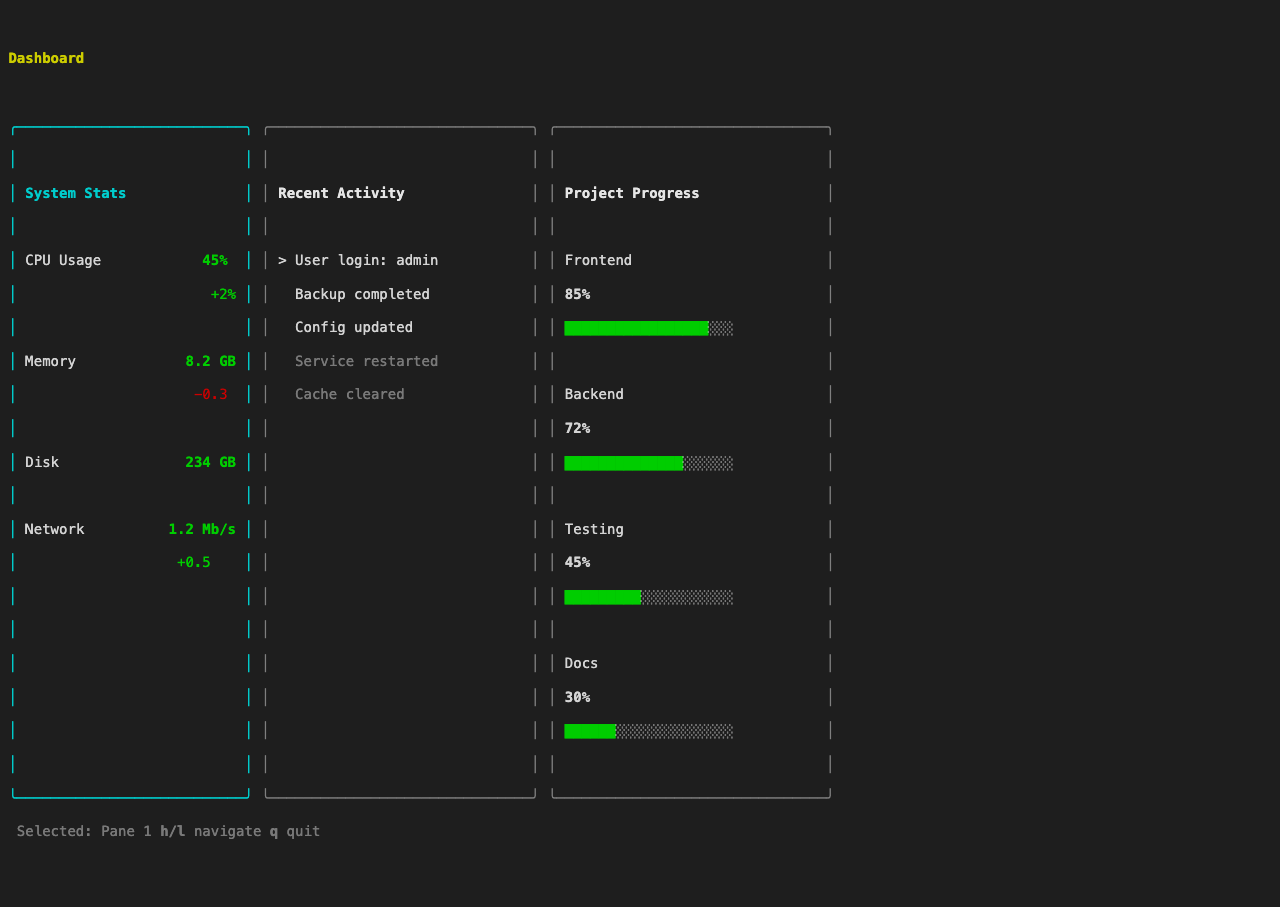
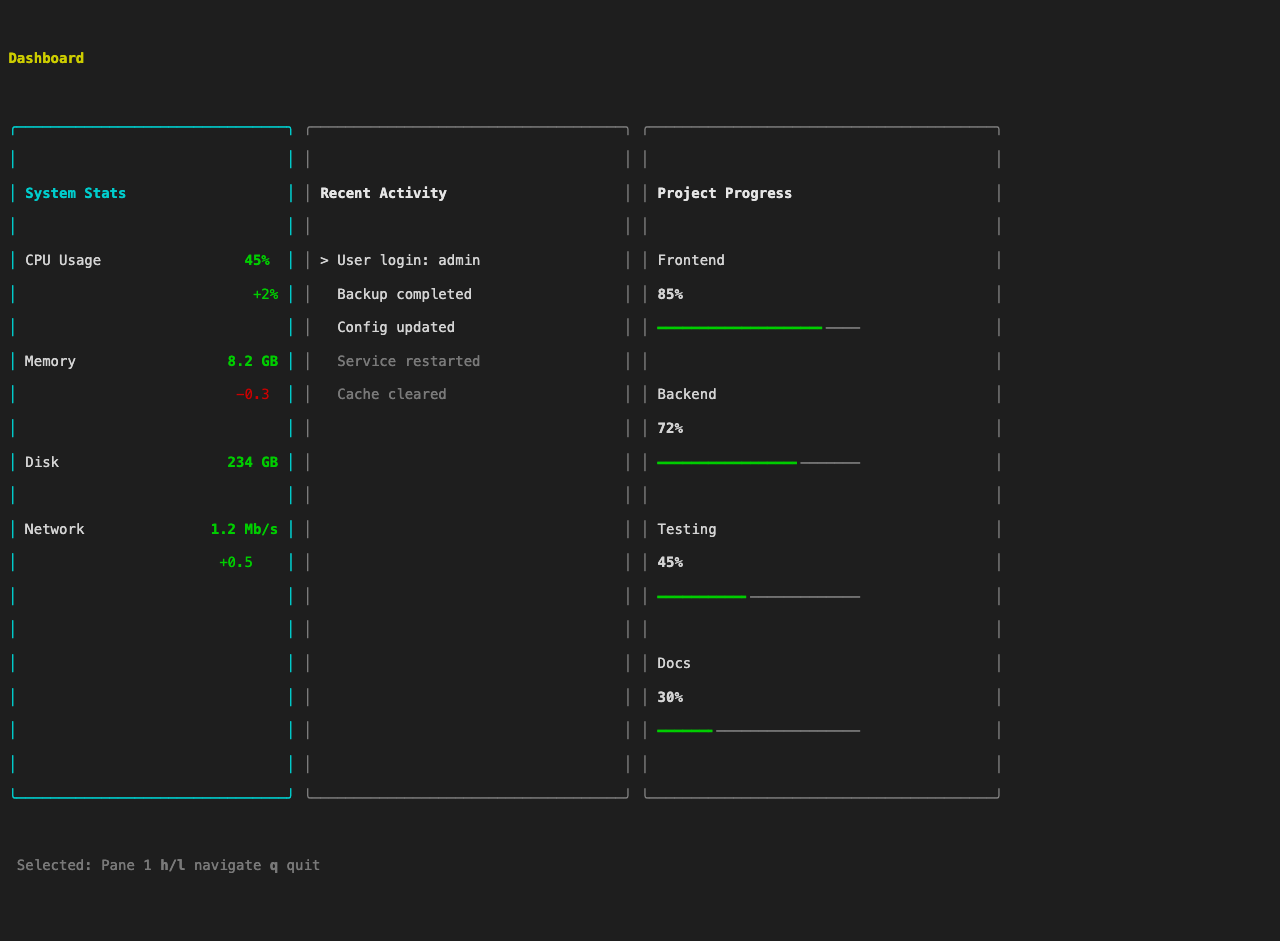
fix: improve README screenshots and remove chalkx references
- Remove chalkx from Related Projects table (internal detail, not user-facing)
- Task list: replace [!!!]/[!!]/[!] with colored P1/P2/P3 labels, add
  separator lines, use realistic task names, reduce to 8 items
- Dashboard: use sophisticated progress bar chars (━/╸/─), increase to 120 cols
- Kanban: use round borders on columns, increase to 120 cols
- All screenshots: increase rows for breathing room

diff --git a/examples/screenshots/generate.tsx b/examples/screenshots/generate.tsx
@@ -38,6 +38,21 @@ const OUTPUT_DIR = resolve(dirname(import.meta.path), "../../docs/images")
 
 // --- 1. Dashboard -----------------------------------------------------------
 
+function ProgressBar({ percent, width = 24 }: { percent: number; width?: number }): JSX.Element {
+  const filled = Math.round((percent / 100) * width)
+  const empty = width - filled
+  const dot = filled < width ? "\u2578" : ""
+  const filledBar = "\u2501".repeat(Math.max(0, filled - (dot ? 1 : 0)))
+  const emptyBar = "\u2500".repeat(Math.max(0, empty - (dot ? 0 : 0)))
+  return (
+    <Text>
+      <Text color="green">{filledBar}</Text>
+      <Text color="green">{dot}</Text>
+      <Text dim>{emptyBar}</Text>
+    </Text>
+  )
+}
+
 function DashboardScreenshot(): JSX.Element {
   return (
     <Box flexDirection="column" padding={1}>
@@ -121,38 +136,33 @@ function DashboardScreenshot(): JSX.Element {
               { label: "Backend", percent: 72 },
               { label: "Testing", percent: 45 },
               { label: "Docs", percent: 30 },
-            ].map((item) => {
-              const filled = Math.round((item.percent / 100) * 20)
-              const empty = 20 - filled
-              return (
-                <Box key={item.label} flexDirection="column">
-                  <Box justifyContent="space-between">
-                    <Text>{item.label}</Text>
-                    <Text bold>{item.percent}%</Text>
-                  </Box>
-                  <Text>
-                    <Text color="green">{"\u2588".repeat(filled)}</Text>
-                    <Text dim>{"\u2591".repeat(empty)}</Text>
-                  </Text>
+            ].map((item) => (
+              <Box key={item.label} flexDirection="column">
+                <Box justifyContent="space-between">
+                  <Text>{item.label}</Text>
+                  <Text bold>{item.percent}%</Text>
                 </Box>
-              )
-            })}
+                <ProgressBar percent={item.percent} />
+              </Box>
+            ))}
           </Box>
         </Box>
       </Box>
 
-      <Text dim>
-        {" "}
-        Selected: Pane 1{" "}
-        <Text bold dim>
-          h/l
-        </Text>{" "}
-        navigate{" "}
-        <Text bold dim>
-          q
-        </Text>{" "}
-        quit
-      </Text>
+      <Box marginTop={1}>
+        <Text dim>
+          {" "}
+          Selected: Pane 1{" "}
+          <Text bold dim>
+            h/l
+          </Text>{" "}
+          navigate{" "}
+          <Text bold dim>
+            q
+          </Text>{" "}
+          quit
+        </Text>
+      </Box>
     </Box>
   )
 }
@@ -161,83 +171,20 @@ function DashboardScreenshot(): JSX.Element {
 
 function TaskListScreenshot(): JSX.Element {
   const tasks = [
-    {
-      id: 1,
-      title: "Review pull request #1",
-      completed: false,
-      priority: "high" as const,
-    },
-    {
-      id: 2,
-      title: "Update documentation #1",
-      completed: true,
-      priority: "medium" as const,
-    },
-    {
-      id: 3,
-      title: "Fix bug in authentication #1",
-      completed: false,
-      priority: "low" as const,
-    },
-    {
-      id: 4,
-      title: "Implement new feature #1",
-      completed: false,
-      priority: "high" as const,
-    },
-    {
-      id: 5,
-      title: "Write unit tests #1",
-      completed: true,
-      priority: "medium" as const,
-    },
-    {
-      id: 6,
-      title: "Refactor legacy code #1",
-      completed: false,
-      priority: "low" as const,
-    },
-    {
-      id: 7,
-      title: "Update dependencies #1",
-      completed: false,
-      priority: "high" as const,
-    },
-    {
-      id: 8,
-      title: "Create API endpoint #1",
-      completed: true,
-      priority: "medium" as const,
-    },
-    {
-      id: 9,
-      title: "Design database schema #1",
-      completed: false,
-      priority: "low" as const,
-    },
-    {
-      id: 10,
-      title: "Optimize performance #1",
-      completed: false,
-      priority: "high" as const,
-    },
-    {
-      id: 11,
-      title: "Add error handling #1",
-      completed: false,
-      priority: "medium" as const,
-    },
-    {
-      id: 12,
-      title: "Setup CI/CD pipeline #1",
-      completed: true,
-      priority: "low" as const,
-    },
+    { id: 1, title: "Review authentication refactor", completed: false, priority: "high" as const },
+    { id: 2, title: "Update API documentation", completed: true, priority: "medium" as const },
+    { id: 3, title: "Fix timezone handling in scheduler", completed: false, priority: "high" as const },
+    { id: 4, title: "Add rate limiting to endpoints", completed: false, priority: "medium" as const },
+    { id: 5, title: "Write integration tests for payments", completed: true, priority: "low" as const },
+    { id: 6, title: "Migrate user table to new schema", completed: false, priority: "high" as const },
+    { id: 7, title: "Set up staging environment", completed: false, priority: "low" as const },
+    { id: 8, title: "Refactor notification service", completed: true, priority: "medium" as const },
   ]
-  const cursor = 3
+  const cursor = 2
 
-  const prioritySymbols = { high: "!!!", medium: "!!", low: "!" }
-  const priorityColors = { high: "red", medium: "yellow", low: "green" }
+  const priorityLabels = { high: "P1", medium: "P2", low: "P3" }
+  const priorityColors = { high: "#ff6b6b", medium: "#ffd43b", low: "#69db7c" }
+  const separator = "\u2500"
 
   return (
     <Box flexDirection="column" padding={1}>
@@ -245,34 +192,47 @@ function TaskListScreenshot(): JSX.Element {
         <Text bold color="yellow">
           Task List
         </Text>
+        <Text dim>
+          {" "}
+          {tasks.filter((t) => t.completed).length}/{tasks.length} completed
+        </Text>
       </Box>
 
-      <Box flexGrow={1} flexDirection="column" borderStyle="round" borderColor="blue" overflow="hidden">
+      <Box flexGrow={1} flexDirection="column" borderStyle="round" borderColor="blue" overflow="hidden" paddingX={1}>
         {tasks.map((task, index) => {
-          const checkbox = task.completed ? "[x]" : "[ ]"
+          const checkbox = task.completed ? "\u2611" : "\u2610"
           const isSelected = index === cursor
+          const showSeparator = index < tasks.length - 1
+          const label = priorityLabels[task.priority]
+          const labelColor = priorityColors[task.priority]
 
           return (
-            <Box key={task.id}>
+            <Box key={task.id} flexDirection="column">
               {isSelected ? (
-                <Text backgroundColor="cyan" color="black">
-                  {" "}
-                  {checkbox} {task.title}{" "}
+                <Text>
+                  <Text backgroundColor="cyan" color="black">
+                    {" "}
+                    {checkbox} {task.title}{" "}
+                  </Text>{" "}
+                  <Text color={labelColor} bold>
+                    {label}
+                  </Text>
                 </Text>
               ) : (
                 <Text strikethrough={task.completed} dim={task.completed}>
-                  {checkbox} {task.title}
+                  {checkbox} {task.title}{" "}
+                  <Text color={labelColor} bold>
+                    {label}
+                  </Text>
                 </Text>
-              )}{" "}
-              <Text color={priorityColors[task.priority]} bold>
-                [{prioritySymbols[task.priority]}]
-              </Text>
+              )}
+              {showSeparator && <Text dim>{separator.repeat(70)}</Text>}
             </Box>
           )
         })}
       </Box>
 
-      <Box justifyContent="space-between">
+      <Box marginTop={1} justifyContent="space-between">
         <Text dim>
           {" "}
           <Text bold dim>
@@ -294,7 +254,7 @@ function TaskListScreenshot(): JSX.Element {
         </Text>
         <Text dim>
           {" "}
-          <Text bold>4</Text>/12 (33%) | 4/12{" "}
+          <Text bold>3</Text>/8{" "}
         </Text>
       </Box>
     </Box>
@@ -374,7 +334,7 @@ function KanbanScreenshot(): JSX.Element {
             key={col.id}
             flexDirection="column"
             flexGrow={1}
-            borderStyle="single"
+            borderStyle="round"
             borderColor={col.isSelected ? "cyan" : "gray"}
           >
             <Box backgroundColor={col.isSelected ? "cyan" : undefined} paddingX={1}>
@@ -510,29 +470,29 @@ const screenshots: ScreenshotConfig[] = [
     name: "Dashboard",
     filename: "dashboard.png",
     element: <DashboardScreenshot />,
-    cols: 100,
-    rows: 22,
+    cols: 120,
+    rows: 25,
   },
   {
     name: "Task List",
     filename: "task-list.png",
     element: <TaskListScreenshot />,
     cols: 80,
-    rows: 20,
+    rows: 23,
   },
   {
     name: "Kanban Board",
     filename: "kanban.png",
     element: <KanbanScreenshot />,
-    cols: 100,
-    rows: 24,
+    cols: 120,
+    rows: 27,
   },
   {
     name: "Layout Feedback",
     filename: "layout-feedback.png",
     element: <LayoutFeedbackScreenshot />,
     cols: 90,
-    rows: 18,
+    rows: 20,
   },
 ]
 

diff --git a/README.md b/README.md
@@ -197,7 +197,6 @@ See [docs/README.md](docs/README.md) for the complete documentation index.
 | ------------------------------------------ | ----------------------------------------------- |
 | [Ink](https://github.com/vadimdemedes/ink) | API compatibility target                        |
 | [Flexx](https://github.com/beorn/flexx)    | Default layout engine (2.5x faster, 5x smaller) |
-| [chalkx](https://github.com/beorn/chalkx)  | Terminal primitives (re-exported by inkx)       |
 | [Yoga](https://yogalayout.dev/)            | Optional layout engine (WASM)                   |
 
 ## License
